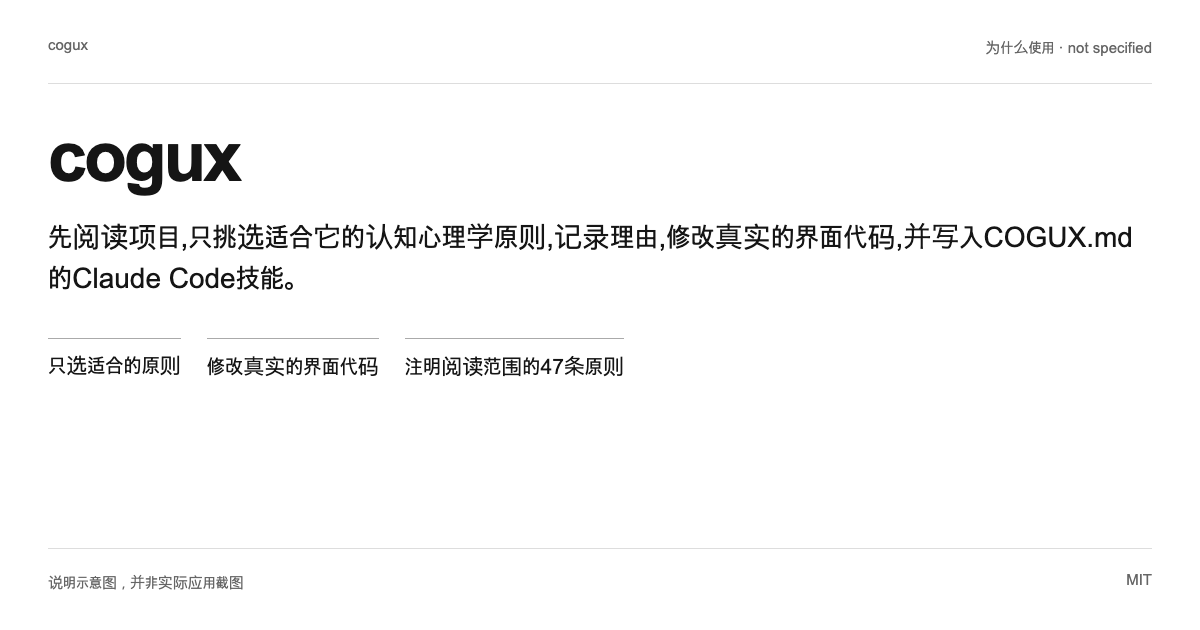
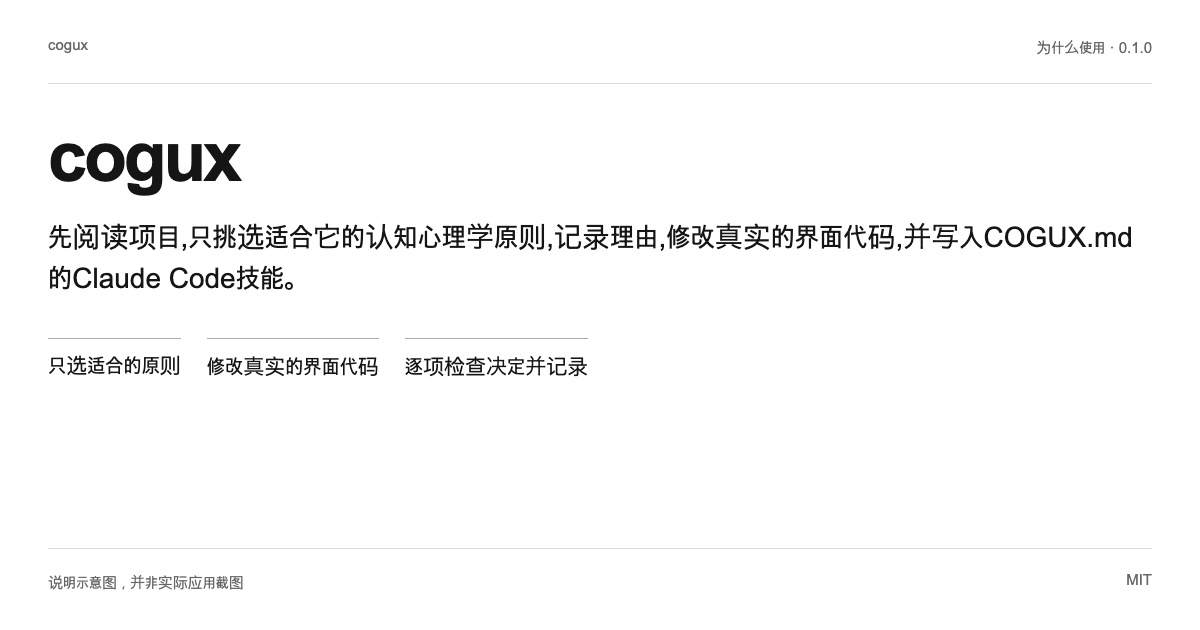
docs: 도식의 not specified 표기, 갤러리 3 제목 불일치, Makefile 수정
why: 버전 값이 비어 영어 자리표시자가 모든 이미지에 찍혔고, 갤러리 3은 제목이 라이브러리인데 상자는 검증 단계였다. Makefile은 이 저장소에 없는 github 명령을 불렀다.

Changed region(s): [[0.3392, 0.5429, 0.5242, 0.6032], [0.8017, 0.0603, 0.9558, 0.0905]]

diff --git a/assets/showcase.html b/assets/showcase.html
@@ -1,3 +1,3 @@
 <!doctype html><html lang="en"><head><meta charset="utf-8"><title>cogux · GitHub showcase</title><style>
 *{box-sizing:border-box}body{margin:0;background:#eee;color:#151515;font-family:Arial,"Noto Sans CJK KR","Apple SD Gothic Neo","Hiragino Kaku Gothic ProN","PingFang SC",sans-serif}.board{background:#fff;position:relative;overflow:hidden;margin:24px auto;display:flex;flex-direction:column;padding:52px 64px}.wide{width:1600px;height:900px}.og{width:1200px;height:630px;padding:36px 48px}.square{width:1200px;height:1200px;padding:52px 64px}header,footer{display:flex;justify-content:space-between;gap:24px;color:#666;font-size:18px}header{padding-bottom:24px;border-bottom:1px solid #ddd}footer{margin-top:auto;padding-top:22px;border-top:1px solid #ddd}main{padding-top:42px}h1,h2,h3,p{margin:0;overflow-wrap:anywhere;word-break:normal}h1{font-size:86px;letter-spacing:-3px;line-height:1.12}h2{font-size:62px;letter-spacing:-2px;line-height:1.22}h3{font-size:30px;line-height:1.3;letter-spacing:-.5px}.lead{margin-top:26px;font-size:34px;line-height:1.45;max-width:1350px}.features{display:grid;grid-template-columns:repeat(3,1fr);gap:40px;margin-top:58px}.feature{padding-top:24px;border-top:1px solid #bbb}.feature small,.flow small{font-family:monospace;font-size:20px;color:#666}.feature h3{margin-top:12px}.feature p{margin-top:16px;font-size:23px;line-height:1.55}.intro{margin-top:22px;font-size:28px;line-height:1.45;max-width:1350px}.flow{display:grid;grid-template-columns:1fr 64px 1fr 64px 1fr;align-items:center;margin-top:42px}.flow section{min-height:288px;padding:28px 24px;background:#f6f6f6;border:1px solid #ddd}.flow h3{margin-top:16px;font-size:28px}.flow p{margin-top:18px;font-size:23px;line-height:1.5}.flow.parallel{grid-template-columns:repeat(3,1fr);gap:36px}.arrow{width:64px;color:#888}.og main{padding-top:34px}.og h1{font-size:70px}.og .lead{font-size:28px;margin-top:22px}.og-benefits{display:flex;gap:26px;flex-wrap:wrap;margin-top:38px;font-size:21px}.og-benefits span{padding-top:12px;border-top:1px solid #aaa}.og header,.og footer{font-size:15px}.square main{padding-top:52px}.index{font:22px monospace;color:#666}.square h2{margin-top:30px;font-size:66px}.gallery-lead{font-size:34px;line-height:1.55;margin-top:28px}.detail{margin-top:44px;padding:30px;background:#f6f6f6;border:1px solid #ddd}.detail h3{font-size:30px}.detail p{font-size:28px;line-height:1.55;margin-top:18px}.source{font:18px monospace;color:#666;margin-top:32px}footer span{white-space:nowrap}html:lang(ko) :is(h1,h2,h3,p){word-break:keep-all;overflow-wrap:break-word}
-</style></head><body><article class="board wide hero" data-board="hero"><header><span>cogux</span><span>Why use it · not specified</span></header><main><h1>cogux</h1><p class="lead">A Claude Code skill that reads a project first, picks only the cognitive-psychology principles that fit it, records why, edits real UI code, and writes COGUX.md.</p><div class="features"><section class="feature"><small>01</small><h3>Picks only the principles that fit</h3><p>The skill reads the users, tasks, screens and constraints first. It then selects principles and must also list the principles it excluded, with reasons. Using one fixed bundle for every project counts as a failure.</p></section><section class="feature"><small>02</small><h3>Edits real UI code</h3><p>Every design decision names a principle, a screen, a change and one observable check such as a count, a size or the presence of an element. The change is then made in the project code and recorded in COGUX.md.</p></section><section class="feature"><small>03</small><h3>A library of 47 principles with a stated reading scope</h3><p>Each principle file has a definition, a source link, when to apply, when not to apply, an observable check and the scope that was actually read. Definitions are written in the author’s own words, not copied from the sources.</p></section></div></main><footer>Explanatory diagram, not an application screenshot<span>MIT</span></footer></article><article class="board wide architecture" data-board="architecture"><header><span>cogux</span><span>How it works · not specified</span></header><main><h2>How it works</h2><p class="intro">The skill follows six steps in order. The three stages below group them.</p><div class="flow "><section><small>01</small><h3>Read and select</h3><p>Record users, tasks, screens and constraints with evidence or an “(assumed)” mark. Then select principles and list the excluded ones.</p></section><svg class="arrow" viewBox="0 0 80 40" aria-hidden="true"><path d="M5 20H65M55 10L65 20L55 30" fill="none" stroke="currentColor" stroke-width="2"/></svg><section><small>02</small><h3>Decide and implement</h3><p>Write each decision with one observable check, change the real UI code and run the existing stripe and theme gates on the changed files.</p></section><svg class="arrow" viewBox="0 0 80 40" aria-hidden="true"><path d="M5 20H65M55 10L65 20L55 30" fill="none" stroke="currentColor" stroke-width="2"/></svg><section><small>03</small><h3>Verify and record</h3><p>Run each check in a rendered page when a browser path exists. Results are pass, fail, unverified or not-applicable with a reason. COGUX.md keeps the record.</p></section></div></main><footer>Explanatory diagram, not an application screenshot<span>MIT</span></footer></article><article class="board og" data-board="og"><header><span>cogux</span><span>Why use it · not specified</span></header><main><h1>cogux</h1><p class="lead">A Claude Code skill that reads a project first, picks only the cognitive-psychology principles that fit it, records why, edits real UI code, and writes COGUX.md.</p><div class="og-benefits"><span>Picks only the principles that fit</span><span>Edits real UI code</span><span>A library of 47 principles with a stated reading scope</span></div></main><footer>Explanatory diagram, not an application screenshot<span>MIT</span></footer></article><article class="board square gallery g1" data-board="gallery-1"><header><span>cogux</span><span>Why use it · not specified</span></header><main><small class="index">01 / 03</small><h2>Picks only the principles that fit</h2><p class="gallery-lead">The skill reads the users, tasks, screens and constraints first. It then selects principles and must also list the principles it excluded, with reasons. Using one fixed bundle for every project counts as a failure.</p><div class="detail"><h3>Read and select</h3><p>Record users, tasks, screens and constraints with evidence or an “(assumed)” mark. Then select principles and list the excluded ones.</p></div><p class="source">skill-read · skill-select</p></main><footer>Explanatory diagram, not an application screenshot<span>MIT</span></footer></article><article class="board square gallery g2" data-board="gallery-2"><header><span>cogux</span><span>Why use it · not specified</span></header><main><small class="index">02 / 03</small><h2>Edits real UI code</h2><p class="gallery-lead">Every design decision names a principle, a screen, a change and one observable check such as a count, a size or the presence of an element. The change is then made in the project code and recorded in COGUX.md.</p><div class="detail"><h3>Decide and implement</h3><p>Write each decision with one observable check, change the real UI code and run the existing stripe and theme gates on the changed files.</p></div><p class="source">skill-decide</p></main><footer>Explanatory diagram, not an application screenshot<span>MIT</span></footer></article><article class="board square gallery g3" data-board="gallery-3"><header><span>cogux</span><span>Why use it · not specified</span></header><main><small class="index">03 / 03</small><h2>A library of 47 principles with a stated reading scope</h2><p class="gallery-lead">Each principle file has a definition, a source link, when to apply, when not to apply, an observable check and the scope that was actually read. Definitions are written in the author’s own words, not copied from the sources.</p><div class="detail"><h3>Verify and record</h3><p>Run each check in a rendered page when a browser path exists. Results are pass, fail, unverified or not-applicable with a reason. COGUX.md keeps the record.</p></div><p class="source">library</p></main><footer>Explanatory diagram, not an application screenshot<span>MIT</span></footer></article></body></html>
+</style></head><body><article class="board wide hero" data-board="hero"><header><span>cogux</span><span>Why use it · 0.1.0</span></header><main><h1>cogux</h1><p class="lead">A Claude Code skill that reads a project first, picks only the cognitive-psychology principles that fit it, records why, edits real UI code, and writes COGUX.md.</p><div class="features"><section class="feature"><small>01</small><h3>Picks only the principles that fit</h3><p>The skill reads the users, tasks, screens and constraints first. It then selects principles and must also list the principles it excluded, with reasons. Using one fixed bundle for every project counts as a failure.</p></section><section class="feature"><small>02</small><h3>Edits real UI code</h3><p>Every design decision names a principle, a screen, a change and one observable check such as a count, a size or the presence of an element. The change is then made in the project code and recorded in COGUX.md.</p></section><section class="feature"><small>03</small><h3>Checks and records decisions</h3><p>Each design decision carries one observable check. The skill runs it in a rendered page when a browser path exists, never guesses a pass, and writes the results and the unverified items to COGUX.md.</p></section></div></main><footer>Explanatory diagram, not an application screenshot<span>MIT</span></footer></article><article class="board wide architecture" data-board="architecture"><header><span>cogux</span><span>How it works · 0.1.0</span></header><main><h2>How it works</h2><p class="intro">The skill follows six steps in order. The three stages below group them.</p><div class="flow "><section><small>01</small><h3>Read and select</h3><p>Record users, tasks, screens and constraints with evidence or an “(assumed)” mark. Then select principles and list the excluded ones.</p></section><svg class="arrow" viewBox="0 0 80 40" aria-hidden="true"><path d="M5 20H65M55 10L65 20L55 30" fill="none" stroke="currentColor" stroke-width="2"/></svg><section><small>02</small><h3>Decide and implement</h3><p>Write each decision with one observable check, change the real UI code and run the existing stripe and theme gates on the changed files.</p></section><svg class="arrow" viewBox="0 0 80 40" aria-hidden="true"><path d="M5 20H65M55 10L65 20L55 30" fill="none" stroke="currentColor" stroke-width="2"/></svg><section><small>03</small><h3>Verify and record</h3><p>Run each check in a rendered page when a browser path exists. Results are pass, fail, unverified or not-applicable with a reason. COGUX.md keeps the record.</p></section></div></main><footer>Explanatory diagram, not an application screenshot<span>MIT</span></footer></article><article class="board og" data-board="og"><header><span>cogux</span><span>Why use it · 0.1.0</span></header><main><h1>cogux</h1><p class="lead">A Claude Code skill that reads a project first, picks only the cognitive-psychology principles that fit it, records why, edits real UI code, and writes COGUX.md.</p><div class="og-benefits"><span>Picks only the principles that fit</span><span>Edits real UI code</span><span>Checks and records decisions</span></div></main><footer>Explanatory diagram, not an application screenshot<span>MIT</span></footer></article><article class="board square gallery g1" data-board="gallery-1"><header><span>cogux</span><span>Why use it · 0.1.0</span></header><main><small class="index">01 / 03</small><h2>Picks only the principles that fit</h2><p class="gallery-lead">The skill reads the users, tasks, screens and constraints first. It then selects principles and must also list the principles it excluded, with reasons. Using one fixed bundle for every project counts as a failure.</p><div class="detail"><h3>Read and select</h3><p>Record users, tasks, screens and constraints with evidence or an “(assumed)” mark. Then select principles and list the excluded ones.</p></div><p class="source">skill-read · skill-select</p></main><footer>Explanatory diagram, not an application screenshot<span>MIT</span></footer></article><article class="board square gallery g2" data-board="gallery-2"><header><span>cogux</span><span>Why use it · 0.1.0</span></header><main><small class="index">02 / 03</small><h2>Edits real UI code</h2><p class="gallery-lead">Every design decision names a principle, a screen, a change and one observable check such as a count, a size or the presence of an element. The change is then made in the project code and recorded in COGUX.md.</p><div class="detail"><h3>Decide and implement</h3><p>Write each decision with one observable check, change the real UI code and run the existing stripe and theme gates on the changed files.</p></div><p class="source">skill-decide</p></main><footer>Explanatory diagram, not an application screenshot<span>MIT</span></footer></article><article class="board square gallery g3" data-board="gallery-3"><header><span>cogux</span><span>Why use it · 0.1.0</span></header><main><small class="index">03 / 03</small><h2>Checks and records decisions</h2><p class="gallery-lead">Each design decision carries one observable check. The skill runs it in a rendered page when a browser path exists, never guesses a pass, and writes the results and the unverified items to COGUX.md.</p><div class="detail"><h3>Verify and record</h3><p>Run each check in a rendered page when a browser path exists. Results are pass, fail, unverified or not-applicable with a reason. COGUX.md keeps the record.</p></div><p class="source">skill-verify</p></main><footer>Explanatory diagram, not an application screenshot<span>MIT</span></footer></article></body></html>

diff --git a/README.ko.md b/README.ko.md
@@ -6,7 +6,7 @@
 
 ![cogux: 설명용 도식이며 실제 앱 화면이 아닙니다](assets/ko/hero.png)
 
-not specified · MIT
+0.1.0 · MIT
 
 ## 왜 쓰나요
 
@@ -14,7 +14,7 @@ not specified · MIT
 | --- | --- |
 | 맞는 원칙만 고릅니다 | 사용자, 과업, 화면, 제약을 먼저 읽습니다. 그다음 원칙을 고르고, 제외한 원칙도 이유와 함께 반드시 적습니다. 모든 프로젝트에 같은 묶음을 쓰는 것은 실패로 규정합니다. |
 | 실제 화면 코드를 고칩니다 | 설계 결정마다 원칙, 화면, 바꾸는 내용, 개수나 크기나 존재 여부처럼 관찰할 수 있는 확인 한 가지를 씁니다. 그 결정을 프로젝트 코드에 구현하고 COGUX.md에 기록합니다. |
-| 읽은 범위를 밝힌 원칙 47개 | 원칙 파일마다 정의, 출처 링크, 적용할 때, 적용하지 않을 때, 관찰 확인, 실제로 읽은 범위가 있습니다. 정의는 출처에서 옮기지 않고 직접 쓴 문장입니다. |
+| 결정마다 확인하고 기록합니다 | 설계 결정마다 관찰 확인 한 가지가 붙습니다. 브라우저 경로가 있으면 렌더링한 화면에서 실행하고, 통과를 추측으로 적지 않으며, 결과와 미확인 항목을 COGUX.md에 남깁니다. |
 
 ## 빠른 시작
 
@@ -51,11 +51,15 @@ bash "$HOME/.claude/skills/cogux/gates/verify_cogux.sh" "$HOME/.claude/skills/co
 
 fixtures/에는 처음 쓰는 결제 흐름과 집중 공부 앱이 있습니다. 각각 수정 전 화면, 수정한 화면, COGUX.md가 있고, 두 프로젝트가 고른 원칙은 서로 다릅니다.
 
+### 읽은 범위를 밝힌 원칙 47개
+
+원칙 파일마다 정의, 출처 링크, 적용할 때, 적용하지 않을 때, 관찰 확인, 실제로 읽은 범위가 있습니다. 정의는 출처에서 옮기지 않고 직접 쓴 문장입니다.
+
 ![맞는 원칙만 고릅니다: 설명용 도식이며 실제 앱 화면이 아닙니다](assets/ko/gallery-1.png)
 
 ![실제 화면 코드를 고칩니다: 설명용 도식이며 실제 앱 화면이 아닙니다](assets/ko/gallery-2.png)
 
-![읽은 범위를 밝힌 원칙 47개: 설명용 도식이며 실제 앱 화면이 아닙니다](assets/ko/gallery-3.png)
+![결정마다 확인하고 기록합니다: 설명용 도식이며 실제 앱 화면이 아닙니다](assets/ko/gallery-3.png)
 
 ## 한계와 개인정보
 
@@ -86,7 +90,7 @@ fixtures/에는 처음 쓰는 결제 흐름과 집중 공부 앱이 있습니다
 - `skill-decide`: `SKILL.md`, L57–L69 (코드 확인)
 - `skill-verify`: `SKILL.md`, L71–L87 (코드 확인)
 - `library`: `references/INDEX.md`, L1–L22 (코드 확인)
-- `readme-source`: `README.md`, L10–L16 (문서 기준)
+- `rights-and-scope`: `references/INDEX.md`, L5–L21 (문서 기준)
 - `gate`: `gates/verify_cogux.sh`, L1–L34 (실행 확인)
 - `fixture-a`: `fixtures/checkout-first-time/COGUX.md`, L1–L77 (코드 확인)
 - `fixture-b`: `fixtures/study-adhd/COGUX.md`, L1–L77 (코드 확인)
@@ -94,14 +98,15 @@ fixtures/에는 처음 쓰는 결제 흐름과 집중 공부 앱이 있습니다
 
 - `selects` → `skill-read`, `skill-select`
 - `implements` → `skill-decide`
-- `library` → `library`
+- `records` → `skill-verify`
 - `read` → `skill-read`, `skill-select`
 - `decide` → `skill-decide`
 - `verify` → `skill-verify`
 - `examples` → `fixture-a`, `fixture-b`
+- `library` → `library`
 - `local-rules` → `skill-boundary`, `skill-decide`
-- `reading-scope` → `readme-source`, `library`
-- `third-party` → `readme-source`, `license`
+- `reading-scope` → `rights-and-scope`, `library`
+- `third-party` → `rights-and-scope`, `license`
 - `gate-run` → `gate`
 - `clone` → `gate`
 - `quickstart` → `gate`, `skill-verify`

diff --git a/README.md b/README.md
@@ -6,7 +6,7 @@ A Claude Code skill that reads a project first, picks only the cognitive-psychol
 
 ![cogux: Explanatory diagram, not an application screenshot](assets/hero.png)
 
-not specified · MIT
+0.1.0 · MIT
 
 ## Why use it
 
@@ -14,7 +14,7 @@ not specified · MIT
 | --- | --- |
 | Picks only the principles that fit | The skill reads the users, tasks, screens and constraints first. It then selects principles and must also list the principles it excluded, with reasons. Using one fixed bundle for every project counts as a failure. |
 | Edits real UI code | Every design decision names a principle, a screen, a change and one observable check such as a count, a size or the presence of an element. The change is then made in the project code and recorded in COGUX.md. |
-| A library of 47 principles with a stated reading scope | Each principle file has a definition, a source link, when to apply, when not to apply, an observable check and the scope that was actually read. Definitions are written in the author’s own words, not copied from the sources. |
+| Checks and records decisions | Each design decision carries one observable check. The skill runs it in a rendered page when a browser path exists, never guesses a pass, and writes the results and the unverified items to COGUX.md. |
 
 ## Quick start
 
@@ -51,11 +51,15 @@ Run each check in a rendered page when a browser path exists. Results are pass, 
 
 fixtures/ holds a first-time checkout flow and a focus-study app. Each has the before page, the changed page and a COGUX.md. The two projects select different principles.
 
+### A library of 47 principles with a stated reading scope
+
+Each principle file has a definition, a source link, when to apply, when not to apply, an observable check and the scope that was actually read. Definitions are written in the author’s own words, not copied from the sources.
+
 ![Picks only the principles that fit: Explanatory diagram, not an application screenshot](assets/gallery-1.png)
 
 ![Edits real UI code: Explanatory diagram, not an application screenshot](assets/gallery-2.png)
 
-![A library of 47 principles with a stated reading scope: Explanatory diagram, not an application screenshot](assets/gallery-3.png)
+![Checks and records decisions: Explanatory diagram, not an application screenshot](assets/gallery-3.png)
 
 ## Limits and privacy
 
@@ -86,7 +90,7 @@ Read SKILL.md for the workflow, references/INDEX.md for the principles, and fixt
 - `skill-decide`: `SKILL.md`, L57–L69 (Source inspected)
 - `skill-verify`: `SKILL.md`, L71–L87 (Source inspected)
 - `library`: `references/INDEX.md`, L1–L22 (Source inspected)
-- `readme-source`: `README.md`, L10–L16 (Documented)
+- `rights-and-scope`: `references/INDEX.md`, L5–L21 (Documented)
 - `gate`: `gates/verify_cogux.sh`, L1–L34 (Execution verified)
 - `fixture-a`: `fixtures/checkout-first-time/COGUX.md`, L1–L77 (Source inspected)
 - `fixture-b`: `fixtures/study-adhd/COGUX.md`, L1–L77 (Source inspected)
@@ -94,14 +98,15 @@ Read SKILL.md for the workflow, references/INDEX.md for the principles, and fixt
 
 - `selects` → `skill-read`, `skill-select`
 - `implements` → `skill-decide`
-- `library` → `library`
+- `records` → `skill-verify`
 - `read` → `skill-read`, `skill-select`
 - `decide` → `skill-decide`
 - `verify` → `skill-verify`
 - `examples` → `fixture-a`, `fixture-b`
+- `library` → `library`
 - `local-rules` → `skill-boundary`, `skill-decide`
-- `reading-scope` → `readme-source`, `library`
-- `third-party` → `readme-source`, `license`
+- `reading-scope` → `rights-and-scope`, `library`
+- `third-party` → `rights-and-scope`, `license`
 - `gate-run` → `gate`
 - `clone` → `gate`
 - `quickstart` → `gate`, `skill-verify`
